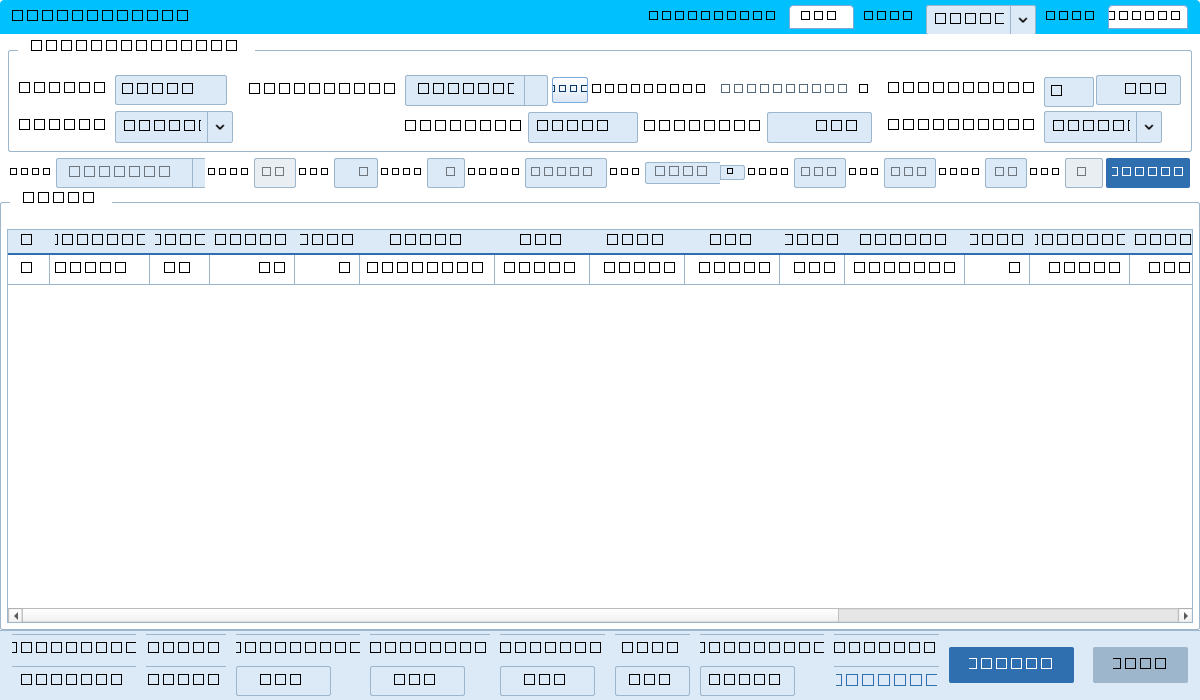
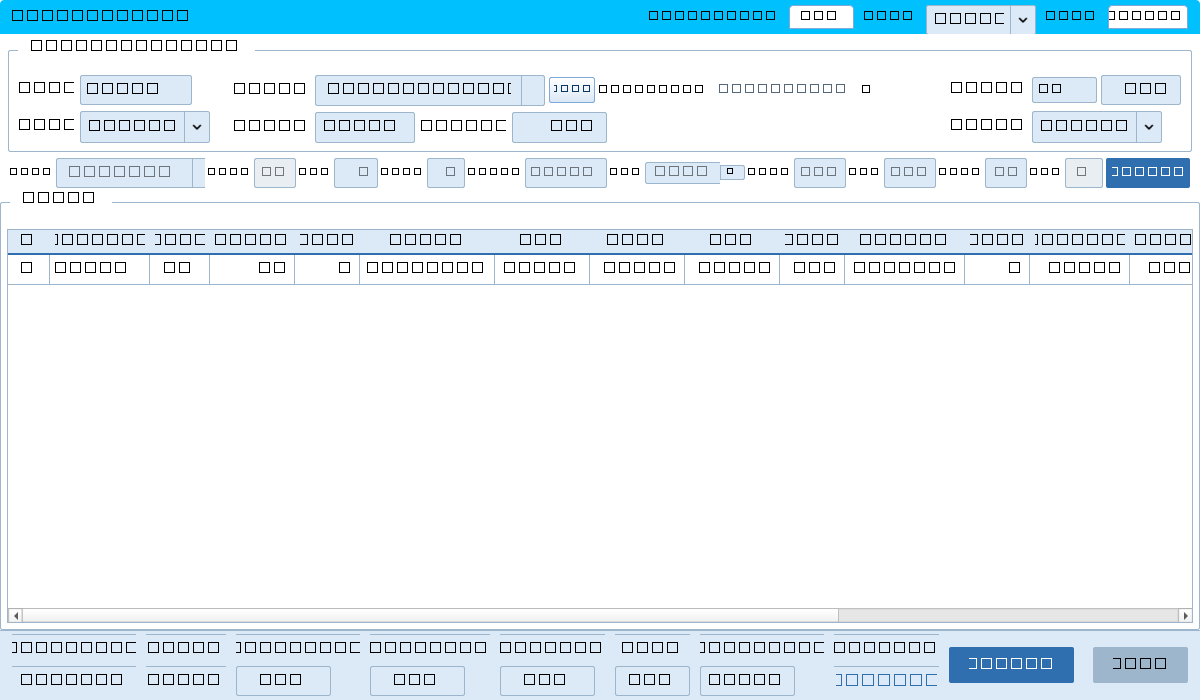
feat: Add new test scripts and images for invoice dialog layout adjustments

diff --git a/screens/purchase_invoice.py b/screens/purchase_invoice.py
@@ -1269,7 +1269,12 @@ class _InvoiceDialog(QDialog):
         grp.setStyleSheet(_GROUP_BOX)
         form_layout = QHBoxLayout(grp)
         form_layout.setContentsMargins(10, 10, 10, 8)
-        form_layout.setSpacing(16)
+        form_layout.setSpacing(24)
+
+        # Standard label width definitions for clean alignment
+        LBL_LEFT_W = 55
+        LBL_MID_W = 75
+        LBL_RIGHT_W = 75
 
         # Left Column: Type, Date
         left_col = QWidget()
@@ -1278,19 +1283,21 @@ class _InvoiceDialog(QDialog):
         left_grid.setSpacing(6)
 
         lbl_type = self._lbl("Type :")
+        lbl_type.setFixedWidth(LBL_LEFT_W)
         self.purchase_type_combo = _make_combo(max_visible=5, max_height=160)
         self.purchase_type_combo.addItems(["Credit", "Cash", "Credit Card"])
         self.purchase_type_combo.setFixedWidth(112)
         self.purchase_type_combo.currentTextChanged.connect(self._on_purchase_type_changed)
         left_grid.addWidget(lbl_type, 0, 0, Qt.AlignRight | Qt.AlignVCenter)
-        left_grid.addWidget(self.purchase_type_combo, 0, 1)
+        left_grid.addWidget(self.purchase_type_combo, 0, 1, Qt.AlignLeft | Qt.AlignVCenter)
 
         lbl_date = self._lbl("Date :")
+        lbl_date.setFixedWidth(LBL_LEFT_W)
         self.invoice_date = _make_date()
-        self.invoice_date.setFixedWidth(118)
+        self.invoice_date.setFixedWidth(130)
         self.invoice_date.dateChanged.connect(self._on_invoice_date_changed)
         left_grid.addWidget(lbl_date, 1, 0, Qt.AlignRight | Qt.AlignVCenter)
-        left_grid.addWidget(self.invoice_date, 1, 1)
+        left_grid.addWidget(self.invoice_date, 1, 1, Qt.AlignLeft | Qt.AlignVCenter)
         form_layout.addWidget(left_col)
 
         # Middle Column: Supplier, Edit, Balance, Invoice #, Inv Net Amt
@@ -1300,6 +1307,7 @@ class _InvoiceDialog(QDialog):
         mid_grid.setSpacing(6)
 
         lbl_sup = self._lbl("Supplier :")
+        lbl_sup.setFixedWidth(LBL_MID_W)
         mid_grid.addWidget(lbl_sup, 0, 0, Qt.AlignRight | Qt.AlignVCenter)
 
         sup_row = QHBoxLayout()
@@ -1309,16 +1317,17 @@ class _InvoiceDialog(QDialog):
             placeholder="Type supplier name...",
             max_visible=9,
             max_height=270,
-            max_width=450,
-            min_width=240,
+            max_width=270,
+            min_width=210,
             allow_width_expansion=True,
         )
-        sup_row.addWidget(self.supplier_combo, 1)
+        self.supplier_combo.setFixedWidth(230)
+        sup_row.addWidget(self.supplier_combo)
 
         self.btn_supplier_edit = QPushButton("Edit")
-        self.btn_supplier_edit.setFixedSize(36, 26)
+        self.btn_supplier_edit.setFixedSize(46, 26)
         self.btn_supplier_edit.setStyleSheet(
-            "QPushButton { background: qlineargradient(x1:0, y1:0, x2:0, y2:1, stop:0 #ffffff, stop:1 #dbe7f5); border: 1px solid #7eaadb; border-radius: 2px; color: #0a3663; font-size: 11px; font-weight: bold; } QPushButton:hover { background: #cde2f8; }"
+            "QPushButton { background: qlineargradient(x1:0, y1:0, x2:0, y2:1, stop:0 #ffffff, stop:1 #dbe7f5); border: 1px solid #7eaadb; border-radius: 2px; color: #0a3663; font-size: 11px; font-weight: bold; padding: 1px 4px; } QPushButton:hover { background: #cde2f8; }"
         )
         self.btn_supplier_edit.setToolTip("Edit selected supplier master")
         self.btn_supplier_edit.setFocusPolicy(Qt.NoFocus)
@@ -1326,32 +1335,36 @@ class _InvoiceDialog(QDialog):
         sup_row.addWidget(self.btn_supplier_edit)
 
         self.sup_bal_prefix = QLabel("(Balance=")
-        self.sup_bal_prefix.setStyleSheet(f"color: {_TEXT}; font-size: 13px; font-weight: bold; background: transparent;")
+        self.sup_bal_prefix.setStyleSheet(f"color: {_TEXT}; font-size: 12px; font-weight: bold; background: transparent; padding: 0; margin: 0;")
         sup_row.addWidget(self.sup_bal_prefix)
 
         self.supplier_bal_label = QLabel("0.00")
-        self.supplier_bal_label.setStyleSheet(f"color: {_TEXT}; font-size: 13px; font-weight: bold; background: transparent;")
+        self.supplier_bal_label.setStyleSheet(f"color: {_TEXT}; font-size: 12px; font-weight: bold; background: transparent; padding: 0; margin: 0;")
         sup_row.addWidget(self.supplier_bal_label)
 
         self.sup_bal_suffix = QLabel(")")
-        self.sup_bal_suffix.setStyleSheet(f"color: {_TEXT}; font-size: 13px; font-weight: bold; background: transparent;")
+        self.sup_bal_suffix.setStyleSheet(f"color: {_TEXT}; font-size: 12px; font-weight: bold; background: transparent; padding: 0; margin: 0;")
         sup_row.addWidget(self.sup_bal_suffix)
 
+        sup_row.addStretch(1)
         mid_grid.addLayout(sup_row, 0, 1)
 
         # Row 1 of Middle: Invoice # and Inv Net Amt
+        lbl_inv_no = self._lbl("Invoice # :")
+        lbl_inv_no.setFixedWidth(LBL_MID_W)
+        mid_grid.addWidget(lbl_inv_no, 1, 0, Qt.AlignRight | Qt.AlignVCenter)
+
         inv_row = QHBoxLayout()
         inv_row.setContentsMargins(0, 0, 0, 0)
         inv_row.setSpacing(6)
 
-        lbl_inv_no = self._lbl("Invoice # :")
-        inv_row.addWidget(lbl_inv_no)
-        self.invoice_no_edit = _make_edit(width=110)
+        self.invoice_no_edit = _make_edit(width=100)
         inv_row.addWidget(self.invoice_no_edit)
 
         lbl_inv_amt = self._lbl("Inv Net Amt :")
+        lbl_inv_amt.setFixedWidth(85)
         inv_row.addWidget(lbl_inv_amt)
-        self.inv_net_amt_edit = _make_edit("0.00", width=105)
+        self.inv_net_amt_edit = _make_edit("0.00", width=95)
         self.inv_net_amt_edit.setAlignment(Qt.AlignRight | Qt.AlignVCenter)
         inv_row.addWidget(self.inv_net_amt_edit)
         inv_row.addStretch(1)
@@ -1366,26 +1379,37 @@ class _InvoiceDialog(QDialog):
         right_grid.setSpacing(6)
 
         lbl_disc = self._lbl("Discount :")
+        lbl_disc.setFixedWidth(LBL_RIGHT_W)
         right_grid.addWidget(lbl_disc, 0, 0, Qt.AlignRight | Qt.AlignVCenter)
 
         disc_row = QHBoxLayout()
         disc_row.setContentsMargins(0, 0, 0, 0)
-        disc_row.setSpacing(2)
+        disc_row.setSpacing(4)
         self.bill_disc_type_combo = _make_combo()
         self.bill_disc_type_combo.addItems(["Rs", "%"])
-        self.bill_disc_type_combo.setFixedSize(50, 26)
+        self.bill_disc_type_combo.setFixedSize(65, 26)
+        self.bill_disc_type_combo.setStyleSheet(
+            f"QComboBox {{"
+            f"  background-color: {_SURFACE}; color: {_TEXT};"
+            f"  border: 1px solid {_BORDER}; border-radius: 2px;"
+            f"  padding: 1px 2px 1px 6px; font-size: 13px; font-weight: bold; font-family: 'Segoe UI';"
+            f"}}"
+            f"QComboBox:hover {{ border: 1px solid {_ACCENT}; }}"
+            f"QComboBox::drop-down {{ border: none; width: 18px; }}"
+        )
         disc_row.addWidget(self.bill_disc_type_combo)
-        self.bill_discount_edit = _make_edit("0.00", width=85)
+        self.bill_discount_edit = _make_edit("0.00", width=80)
         self.bill_discount_edit.setAlignment(Qt.AlignRight | Qt.AlignVCenter)
         self.bill_discount_edit.textChanged.connect(self._sync_header_to_footer_disc)
         disc_row.addWidget(self.bill_discount_edit)
-        right_grid.addLayout(disc_row, 0, 1)
+        right_grid.addLayout(disc_row, 0, 1, Qt.AlignLeft | Qt.AlignVCenter)
 
         lbl_due = self._lbl("Due Date :")
+        lbl_due.setFixedWidth(LBL_RIGHT_W)
         right_grid.addWidget(lbl_due, 1, 0, Qt.AlignRight | Qt.AlignVCenter)
         self.due_date = _make_date(parent=self)
-        self.due_date.setFixedWidth(118)
-        right_grid.addWidget(self.due_date, 1, 1)
+        self.due_date.setFixedWidth(130)
+        right_grid.addWidget(self.due_date, 1, 1, Qt.AlignLeft | Qt.AlignVCenter)
         form_layout.addWidget(right_col)
 
         parent_layout.addWidget(grp)

diff --git a/scratch/test_layout_changes.py b/scratch/test_layout_changes.py
@@ -1,0 +1,46 @@
+import os, sys
+os.environ['QT_QPA_PLATFORM'] = 'offscreen'
+from PySide6.QtWidgets import QApplication
+from database.connection import init_database
+
+app = QApplication.instance() or QApplication(sys.argv)
+init_database()
+
+from screens.purchase_invoice import _InvoiceDialog
+
+# Let's subclass or monkey-patch to test the new layout
+def test_layout(w_size=1200):
+    dlg = _InvoiceDialog()
+    # Apply adjustments
+    dlg.btn_supplier_edit.setFixedSize(46, 26)
+    dlg.btn_supplier_edit.setStyleSheet(
+        "QPushButton { background: qlineargradient(x1:0, y1:0, x2:0, y2:1, stop:0 #ffffff, stop:1 #dbe7f5); border: 1px solid #7eaadb; border-radius: 2px; color: #0a3663; font-size: 11px; font-weight: bold; padding: 1px 4px; } QPushButton:hover { background: #cde2f8; }"
+    )
+    dlg.supplier_combo.setMinimumWidth(210)
+    dlg.supplier_combo.setMaximumWidth(300)
+    dlg.bill_disc_type_combo.setFixedSize(65, 26)
+    dlg.due_date.setFixedWidth(135)
+    dlg.invoice_date.setFixedWidth(135)
+
+    dlg.resize(w_size, 700)
+    dlg.show()
+    app.processEvents()
+
+    # Find locations
+    pos_btn = dlg.btn_supplier_edit.mapTo(dlg, dlg.btn_supplier_edit.rect().topLeft())
+    pos_combo = dlg.supplier_combo.mapTo(dlg, dlg.supplier_combo.rect().topLeft())
+    pos_bal = dlg.sup_bal_suffix.mapTo(dlg, dlg.sup_bal_suffix.rect().topRight())
+    pos_disc = dlg.bill_disc_type_combo.mapTo(dlg, dlg.bill_disc_type_combo.rect().topLeft())
+    pos_due = dlg.due_date.mapTo(dlg, dlg.due_date.rect().topLeft())
+
+    print(f"=== Width {w_size} ===")
+    print("Supplier combo right:", pos_combo.x() + dlg.supplier_combo.width())
+    print("Edit btn x:", pos_btn.x(), "w:", dlg.btn_supplier_edit.width())
+    print("Balance suffix right:", pos_bal.x())
+    print("Discount combo x:", pos_disc.x())
+    print("Gap between Balance and Discount:", pos_disc.x() - pos_bal.x())
+    print("Due date x:", pos_due.x(), "w:", dlg.due_date.width(), "right:", pos_due.x() + dlg.due_date.width())
+    dlg.close()
+
+test_layout(1200)
+test_layout(1000)

diff --git a/scratch/test_crop.py b/scratch/test_crop.py
@@ -1,0 +1,22 @@
+import os, sys
+sys.path.insert(0, '.')
+os.environ['QT_QPA_PLATFORM'] = 'offscreen'
+from PySide6.QtWidgets import QApplication
+from database.connection import init_database
+from screens.purchase_invoice import _InvoiceDialog
+
+app = QApplication.instance() or QApplication(sys.argv)
+init_database()
+
+# Test dialog layout
+dlg = _InvoiceDialog()
+dlg.resize(1200, 700)
+dlg.show()
+app.processEvents()
+
+from PIL import Image
+im = Image.open('scratch/rendered_fixed_header_dlg.png')
+w, h = im.size
+crop_hdr = im.crop((0, 0, w, 200))
+crop_hdr.save('scratch/fixed_header_crop.png')
+print('fixed_header_crop.png saved!')
